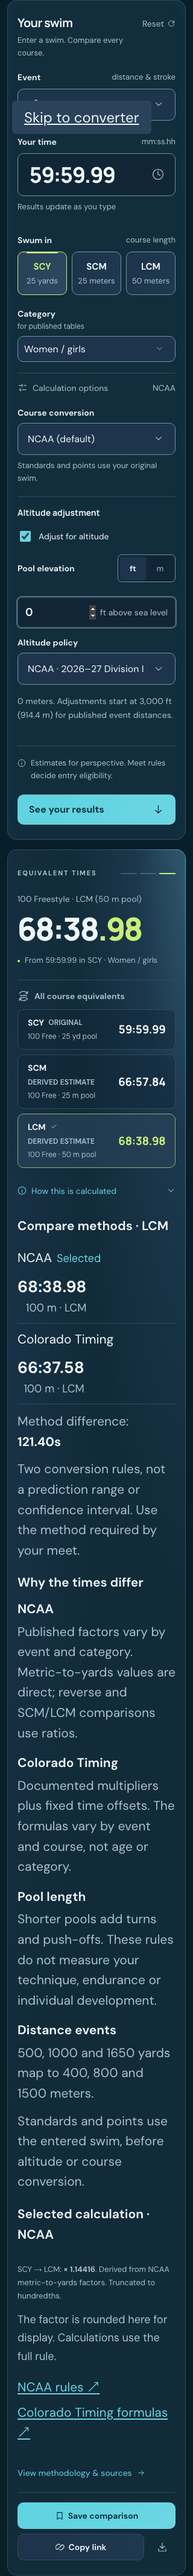
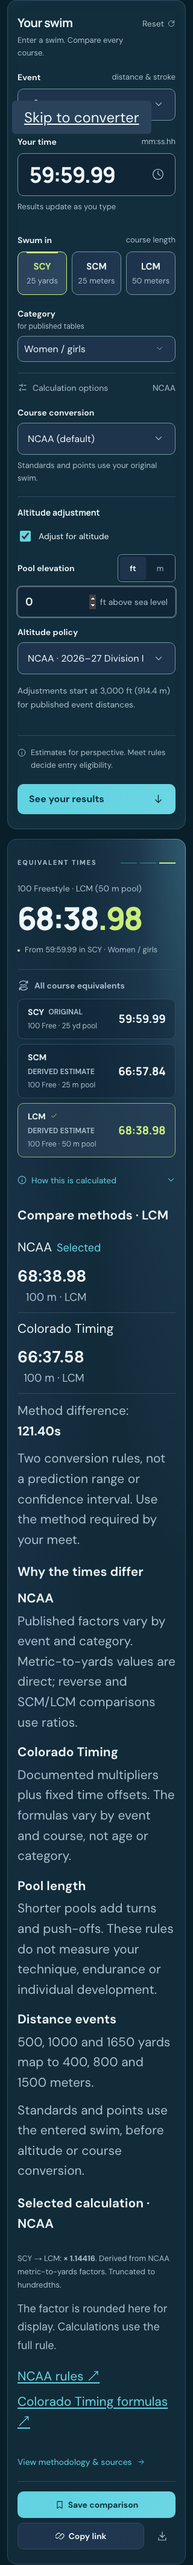
Tighten elevation field spacing and clarify selected units

diff --git a/src/App.svelte b/src/App.svelte
@@ -723,36 +723,38 @@
                 />Adjust for altitude</label
               >
               {#if altitudeEnabled}<div class="altitude-body">
-                  <div class="elevation-heading">
-                    <label for="altitude">Pool elevation</label>
-                    <div
-                      class="elevation-units"
-                      role="group"
-                      aria-label="Elevation units"
-                    >
-                      <button
-                        class:active={elevationUnit === "ft"}
-                        aria-pressed={elevationUnit === "ft"}
-                        onclick={() => (elevationUnit = "ft")}>ft</button
+                  <div class="elevation-field">
+                    <div class="elevation-heading">
+                      <label for="altitude">Pool elevation</label>
+                      <div
+                        class="elevation-units"
+                        role="group"
+                        aria-label="Elevation units"
                       >
-                      <button
-                        class:active={elevationUnit === "m"}
-                        aria-pressed={elevationUnit === "m"}
-                        onclick={() => (elevationUnit = "m")}>m</button
-                      >
+                        <button
+                          class:active={elevationUnit === "ft"}
+                          aria-pressed={elevationUnit === "ft"}
+                          onclick={() => (elevationUnit = "ft")}>ft</button
+                        >
+                        <button
+                          class:active={elevationUnit === "m"}
+                          aria-pressed={elevationUnit === "m"}
+                          onclick={() => (elevationUnit = "m")}>m</button
+                        >
+                      </div>
                     </div>
-                  </div>
-                  <div class="elevation-entry">
-                    <input
-                      type="number"
-                      id="altitude"
-                      min="0"
-                      max={elevationUnit === "ft" ? 20000 : 6096}
-                      step={elevationUnit === "ft" ? 1 : "any"}
-                      bind:value={() => elevationInput, setElevation}
-                      aria-invalid={!altitudeValid}
-                      aria-describedby="elevation-help"
-                    /><span>{elevationUnit} above sea level</span>
+                    <div class="elevation-entry">
+                      <input
+                        type="number"
+                        id="altitude"
+                        min="0"
+                        max={elevationUnit === "ft" ? 20000 : 6096}
+                        step={elevationUnit === "ft" ? 1 : "any"}
+                        bind:value={() => elevationInput, setElevation}
+                        aria-invalid={!altitudeValid}
+                        aria-describedby="elevation-help"
+                      /><span>{elevationUnit} above sea level</span>
+                    </div>
                   </div>
                   <div class="altitude-policy-field">
                     <label class="field-label" for="altitude-policy"
@@ -769,9 +771,6 @@
                     >
                   </div>
                   <p id="elevation-help">
-                    {#if altitudeValid}{elevationUnit === "ft"
-                        ? `${(form.altitude * 0.3048).toLocaleString(undefined, { maximumFractionDigits: 1 })} meters`
-                        : `${form.altitude.toLocaleString()} feet (rounded to the nearest foot)`}.{/if}
                     {#if adjustment}Altitude adjustment: −{adjustment.toFixed(
                         2,
                       )}s before course conversion.

diff --git a/src/converter.css b/src/converter.css
@@ -493,6 +493,13 @@
   gap: 16px;
   padding-block: 8px 20px;
 }
+.altitude-body .elevation-field {
+  display: grid;
+  gap: var(--tm-space-8);
+}
+.altitude-body .elevation-heading {
+  margin-bottom: 0;
+}
 .altitude-policy-field {
   display: grid;
   gap: 8px;
